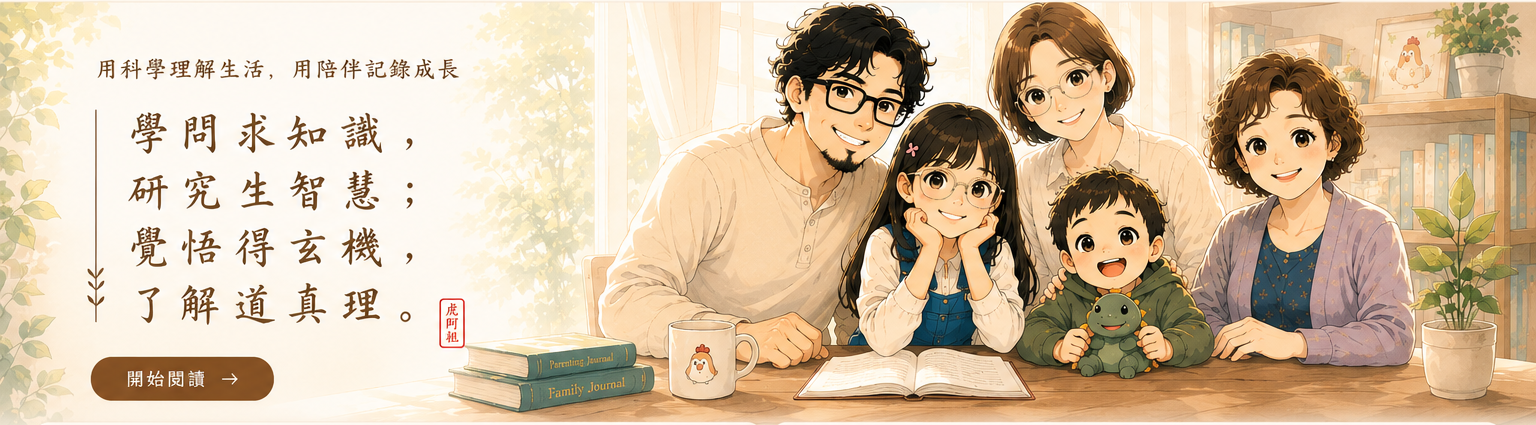
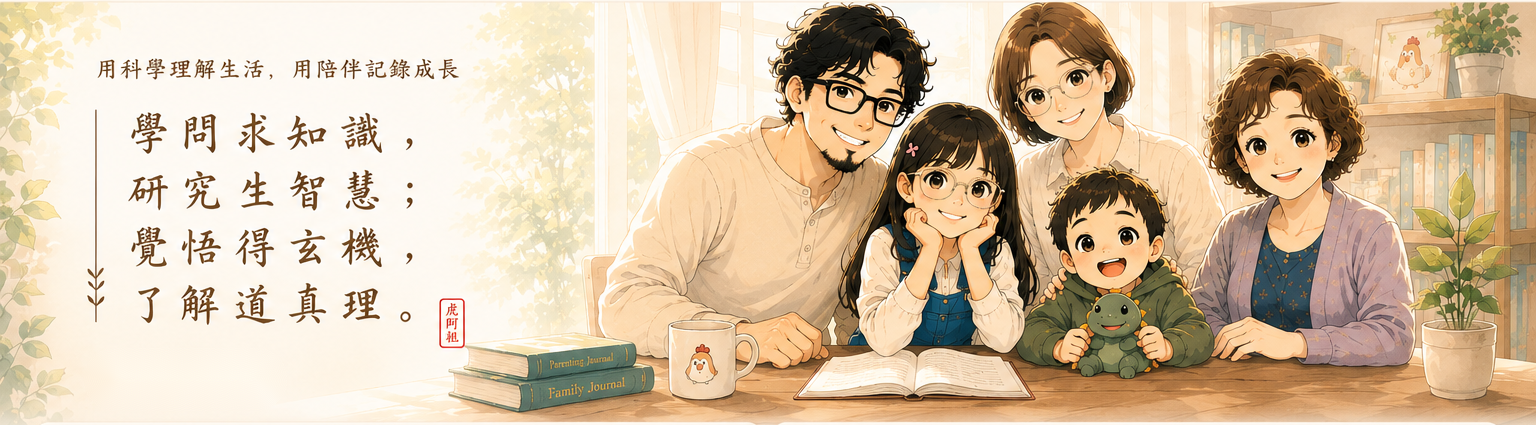
Add files via upload

Changed region(s): [[0.0312, 0.8259, 0.1875, 0.9482]]

diff --git a/css/room-theme-v1.css b/css/room-theme-v1.css
@@ -76,3 +76,86 @@
   .room-hero-statement-inner{width:calc(100% - 32px);}
   .room-hero-statement p{font-size:17px;line-height:1.8;}
 }
+
+
+/* CDJ_HERO_STATEMENT_HOTFIX_20260708
+   移除首頁標語區「開始閱讀」按鈕，讓標語獨立呈現；桌機版避免斷成兩行。 */
+.room-hero-statement{
+  padding:18px 0 20px;
+  background:linear-gradient(180deg,#fffaf3 0%,#fff7e8 100%);
+}
+.room-hero-statement-inner{
+  width:min(1480px,calc(100% - 64px));
+  display:block;
+  text-align:center;
+}
+.room-hero-statement p{
+  max-width:none;
+  margin:0 auto;
+  font-family:"Noto Serif TC","Noto Sans TC","PingFang TC","Microsoft JhengHei",serif;
+  font-size:clamp(18px,1.32vw,23px);
+  line-height:1.55;
+  letter-spacing:.025em;
+  font-weight:800;
+  color:#6f4a2b;
+  text-wrap:balance;
+}
+.room-hero-statement .room-actions{display:none;}
+@media (min-width:1180px){
+  .room-hero-statement p{white-space:nowrap;}
+}
+@media (max-width:680px){
+  .room-hero-statement{
+    padding:14px 0 16px;
+  }
+  .room-hero-statement-inner{width:calc(100% - 32px);}
+  .room-hero-statement p{
+    white-space:normal;
+    font-size:16px;
+    line-height:1.75;
+    letter-spacing:.02em;
+  }
+}
+
+/* CDJ_HERO_FINAL_CTA_FIX_20260708
+   修正：hero 圖片內建的「開始閱讀」已由新版 hero.png 移除；功能 CTA 放到圖片下方，標語桌機維持單行。 */
+.room-hero-statement{
+  padding:16px 0 18px;
+  background:linear-gradient(180deg,#fffaf3 0%,#fff7ea 100%);
+}
+.room-hero-statement-inner{
+  width:min(1600px,calc(100% - 56px));
+  margin:0 auto;
+  text-align:center;
+}
+.room-hero-statement p{
+  max-width:none;
+  margin:0 auto;
+  font-family:"Noto Serif TC","Noto Sans TC","PingFang TC","Microsoft JhengHei",serif;
+  font-size:clamp(15px,1.02vw,19px);
+  line-height:1.5;
+  letter-spacing:.01em;
+  font-weight:700;
+  color:#7a5739;
+  white-space:nowrap;
+  text-wrap:normal;
+}
+.room-hero-statement .room-statement-actions{
+  display:flex !important;
+  justify-content:center;
+  align-items:center;
+  margin-top:12px;
+  gap:12px;
+}
+.room-hero-statement .room-statement-actions .room-btn{
+  padding:11px 22px;
+  font-size:16px;
+  box-shadow:0 10px 22px rgba(93,56,20,.13);
+}
+@media (max-width:900px){
+  .room-hero-statement p{
+    white-space:normal;
+    font-size:16px;
+    line-height:1.75;
+  }
+}

diff --git a/index.html b/index.html
@@ -3,6 +3,7 @@
 <head>
 <!-- CDJ_ROOM_HOME_V1_20260708 -->
 <!-- CDJ_HERO_STATEMENT_HOTFIX_20260708 -->
+<!-- CDJ_HERO_FINAL_CTA_FIX_20260708 -->
 <meta charset="utf-8">
 <meta name="viewport" content="width=device-width, initial-scale=1">
 <title>雞爸爸生活研究室｜雞爸爸的日常誌</title>
@@ -41,6 +42,7 @@
     <div class="room-hero-statement-inner">
       <!-- CDJ_HERO_STATEMENT_HOTFIX_20260708 -->
       <p>在這裡，生活的記憶、健康的智慧、閱讀的深度、風格的趣味、光影的溫度，交織成雞爸爸的日常誌。</p>
+      <div class="room-actions room-statement-actions"><a class="room-btn primary" href="./memory.html">開始閱讀</a></div>
     </div>
   </section>
   <div class="room-wrap">

diff --git a/README-hero-final-cta-fix-20260708.md b/README-hero-final-cta-fix-20260708.md
@@ -1,0 +1,10 @@
+# ChickenDadJournal Hero Final CTA Fix 20260708
+
+修正首頁主視覺與標語區：
+
+- 移除 hero 圖片本身內建的「開始閱讀」假按鈕（覆蓋 `assets/step1a-redo/hero.png`）。
+- 恢復真正可點擊的「開始閱讀」CTA，放在圖片下方標語區，連到 `memory.html`。
+- 調整「在這裡……日常誌。」字級、色系與寬度，桌機版維持單行，手機版自然換行。
+- 不改首頁主導覽，不改文章內容，不改其他入口頁。
+
+部署後可搜尋：`CDJ_HERO_FINAL_CTA_FIX_20260708`